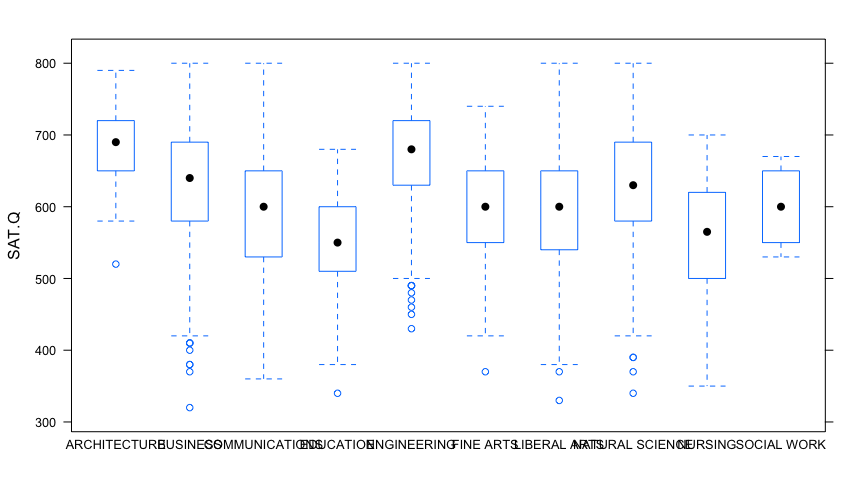
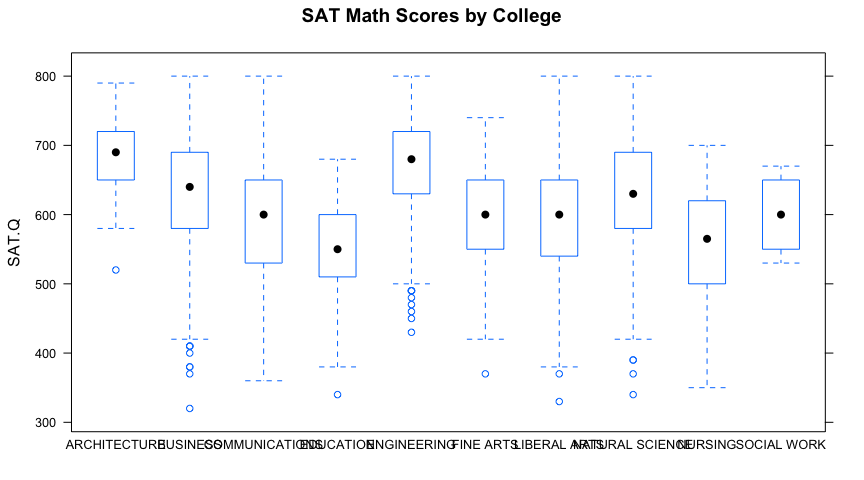
SAT example

diff --git a/teaching/r/sat/sat.md b/teaching/r/sat/sat.md
@@ -2,80 +2,72 @@
 layout: page
 ---
 
-### Boxplots, scatter plots, and lattice plots
+Test scores and GPA for UT graduates
+------------------------------------
 
-In this walk-through, you'll learn how to visualize relationhip of a
-single quantitative variable. You will also learn how to change some of
-the default graphics settings in R plots.
+In this walk-through, you'll learn how to summarize and visualize the
+following kinds of relationships:  
+- between a numerical variable and a categorical variable, via
+group-wise means and boxplots.  
+- between two numerical variables, via scatter plots and correlation
+coefficients.  
+- three variables, using lattice plots.
 
-Data files:  
+You will also learn how to change more of the default plot settings in R
+plots.
+
+You'll need this data file:  
 \* [ut2000.csv](ut2000.csv): data on SAT scores and graduating GPA for
 every student who entered the University of Texas at Austin in the fall
 of 2000 and went on to graduate within 6 years.
 
-First, in order to complete this analysis we need to load in the
-`mosaic` library from within RStudio. An R library (or package) is
-bundle of commands that provides additional functionality, beyond what
-comes with the basic R installation. There are literally thousands of
-packages available for R, ranging from the simple to the very
-sophisticated. The mosaic package was written specifically for use in
-statistics classrooms. We will use it along with a handful of other
-packages this semester, so you’ll need to learn how to install them. The
-first minute of [this
-video](https://www.youtube.com/watch?v=u1r5XTqrCTQ) gives a
-walk-through, but it's quite simple: under the Packages tab, there's a
-button for install. Click it, type in the package name (it should
-auto-complete), click install.
+### Preliminaries
 
-Once the installation is done, you'll be ready to use the library. Load
-it in with the `library` command:
+First, in order to complete this analysis we need to load in the
+`mosaic` library from within RStudio:
 
     library(mosaic)
 
-    ## Loading required package: car
     ## Loading required package: dplyr
+
     ## 
     ## Attaching package: 'dplyr'
+
+    ## The following objects are masked from 'package:stats':
     ## 
-    ## The following object is masked from 'package:stats':
-    ## 
-    ##     filter
-    ## 
+    ##     filter, lag
+
     ## The following objects are masked from 'package:base':
     ## 
     ##     intersect, setdiff, setequal, union
-    ## 
+
     ## Loading required package: lattice
+
     ## Loading required package: ggplot2
+
+    ## Loading required package: car
+
+    ## Loading required package: mosaicData
+
     ## 
     ## Attaching package: 'mosaic'
-    ## 
-    ## The following objects are masked from 'package:dplyr':
-    ## 
-    ##     count, do, tally
-    ## 
+
     ## The following object is masked from 'package:car':
     ## 
     ##     logit
+
+    ## The following objects are masked from 'package:dplyr':
     ## 
+    ##     count, do, tally
+
     ## The following objects are masked from 'package:stats':
     ## 
     ##     binom.test, cor, cov, D, fivenum, IQR, median, prop.test,
     ##     quantile, sd, t.test, var
-    ## 
+
     ## The following objects are masked from 'package:base':
     ## 
     ##     max, mean, min, prod, range, sample, sum
-
-There will be a lot of information returned to the console when you load
-the library, but you only have to worry if you see an actual error, like
-this:
-
-    Error in library(mosaic) : there is no package called ‘mosaic’
-
-This means you haven't installed the package! You'll only have to do the
-installation once, but you will have to load the mosaic library (as
-above) at the beginning of each new R session if you intend to use it.
 
 Next, download the ut2000.csv file and read it in.
 
@@ -99,23 +91,34 @@ Next, download the ut2000.csv file and read it in.
     ##  Max.   :4.000           
     ## 
 
+Between-group and within-group variation
+========================================
+
 School (which of the 10 different undergraduate schools at UT the
 student graduated from) is a natural grouping variable here. To see both
 the between-group and within-group variation, let's examine a boxplot of
 SAT math scores (SAT.Q) versus school.
 
-    bwplot(SAT.Q ~ School, data=ut2000)
+    bwplot(SAT.Q ~ School, data=ut2000, main="SAT Math Scores by College")
 
-![](sat_files/figure-markdown_strict/unnamed-chunk-3-1.png)
+![](sat_files/figure-markdown_strict/unnamed-chunk-3-1.png)  
+ The `bwplot` command is available because we loaded the `mosaic`
+package (if you didn't do this, the bwplot command will produce only an
+error). The aesthetics of `bwplot` are a little nicer than the basic R
+command `boxplot`, which would also work just fine. You may also notice
+the names of the colleges along the x axis running together, which you
+can fix by clicking "Zoom" in the Plots tab and manually resizing the
+window.
 
-The `bwplot` command is available because we loaded the `mosaic`
-package. You'll notice the aesthetics are a little nicer than the basic
-R command `boxplot`. You may also notice the names of the colleges along
-the x axis running together, which you can fix by clicking "Zoom" in the
-Plots tab and manually resizing the window.
+The boxplot allows you to get a sense of whether the between-group or
+within-group variation of SAT math scores is larger.  
+- Between-group variation: how much do the central dots for each group
+differ from one another?  
+- Within-group variation: how spread out are the cases within each
+group?
 
-Let's first focus the between-group variation. We can quantify this by
-seeing how the group means differ from one another.
+Let's first focus the between-group variation, by examining how the
+group means differ from one another.
 
     mean(SAT.Q ~ School, data=ut2000)
 
@@ -126,65 +129,108 @@ seeing how the group means differ from one another.
     ##         NURSING     SOCIAL WORK 
     ##        561.1905        602.1429
 
-This function you the group means "straight up." A slightly different
-way of presenting the same information is given by the lm (linear model)
-function:
+Informally, it looks like the typical difference between group means is
+about 40 points.
 
-    lm1 = lm(SAT.Q ~ School, data=ut2000)
-    coef(lm1)
+We can also examine the within-group variation, by looking at the
+standard deviation of SAT math scores within each college:
 
-    ##           (Intercept)        SchoolBUSINESS  SchoolCOMMUNICATIONS 
-    ##            684.687500            -51.766827            -93.053513 
-    ##       SchoolEDUCATION     SchoolENGINEERING       SchoolFINE ARTS 
-    ##           -130.039613             -9.522032            -87.508013 
-    ##    SchoolLIBERAL ARTS SchoolNATURAL SCIENCE         SchoolNURSING 
-    ##            -87.183439            -51.780833           -123.497024 
-    ##     SchoolSOCIAL WORK 
-    ##            -82.544643
+    sd(SAT.Q ~ School, data=ut2000)
 
-The first line says to use ordinary least squares to a linear model for
-SAT.Q using School as a grouping variable. The second line then extracts
-the coefficients of the linear model. These coefficients express the
-groupwise means in baseline-offset form:  
-- the coefficient for Architecture is just the group mean for
-Architecture, which serves as the baseline  
-- all the other coefficients are the offsets: that is, the amount by
-which the corresponding group mean differs from the baseline.
+    ##    ARCHITECTURE        BUSINESS  COMMUNICATIONS       EDUCATION 
+    ##        59.35048        81.71892        82.62860        66.81893 
+    ##     ENGINEERING       FINE ARTS    LIBERAL ARTS NATURAL SCIENCE 
+    ##        74.23923        71.53429        76.69357        79.47781 
+    ##         NURSING     SOCIAL WORK 
+    ##        78.46709        49.64157
 
-If we wanted to quote numbers that describe the within-group and
-between-group variation, a natural way to do so is to compute the
-standard deviation of the fitted values and residuals from the model.
+It looks as if SAT math scores vary most within Communications, and
+least within Social Work.
 
-    my_fitted_values = fitted(lm1)
-    my_residuals = resid(lm1)
-    sd(my_fitted_values)
+The `favstats` command will compute both the mean and standard
+deviation, along with several of your favorite statistics (like the
+minimum/maximum values, the first and third quartiles, and the median),
+for each college:
 
-    ## [1] 29.75042
+    favstats(SAT.Q ~ School, data=ut2000)
 
-    sd(my_residuals)
+    ##             School min    Q1 median    Q3 max     mean       sd    n
+    ## 1     ARCHITECTURE 520 650.0    690 720.0 790 684.6875 59.35048   32
+    ## 2         BUSINESS 320 580.0    640 690.0 800 632.9207 81.71892  832
+    ## 3   COMMUNICATIONS 360 532.5    600 650.0 800 591.6340 82.62860  306
+    ## 4        EDUCATION 340 510.0    550 597.5 680 554.6479 66.81893  142
+    ## 5      ENGINEERING 430 630.0    680 720.0 800 675.1655 74.23923  695
+    ## 6        FINE ARTS 370 550.0    600 650.0 740 597.1795 71.53429  156
+    ## 7     LIBERAL ARTS 330 540.0    600 650.0 800 597.5041 76.69357 1847
+    ## 8  NATURAL SCIENCE 340 580.0    630 690.0 800 632.9067 79.47781 1125
+    ## 9          NURSING 350 507.5    565 615.0 700 561.1905 78.46709   42
+    ## 10     SOCIAL WORK 530 555.0    600 647.5 670 602.1429 49.64157   14
+    ##    missing
+    ## 1        0
+    ## 2        0
+    ## 3        0
+    ## 4        0
+    ## 5        0
+    ## 6        0
+    ## 7        0
+    ## 8        0
+    ## 9        0
+    ## 10       0
 
-    ## [1] 77.57288
+### Two numerical variables
 
-Next, let's look at a scatterplot of graduating GPA versus SAT math
-scores for all students.
+Our basic tool for visualizing the relationship between two numerical
+variables is the scatter plot. Let's make one which shows graduating GPA
+versus SAT math scores for all students.
 
     plot(GPA ~ SAT.Q, data=ut2000)
 
-![](sat_files/figure-markdown_strict/unnamed-chunk-7-1.png)
+![](sat_files/figure-markdown_strict/unnamed-chunk-7-1.png)  
+ If you want to get fancy, you can change the type of mark (pch), size
+(cex), or color (col) of the plotted points:
 
-We can compute a simple correlation using cor:
+    plot(GPA ~ SAT.Q, data=ut2000, pch=19, cex=0.5, col='grey')
+
+![](sat_files/figure-markdown_strict/unnamed-chunk-8-1.png)  
+Try `?plot` and `points` to see some more of the plotting options.
+
+To compute a correlation coefficient, use the `cor` function:
 
     cor(GPA ~ SAT.Q, data=ut2000)
 
     ## [1] 0.3164184
 
+### Scatter plot matrix
+
+To visualize the relationships among three or more numerical variables,
+we can create a pairs plot showing each bivariate relationship. In this
+case, we'll make a matrix of scatter plots corresponding to the 1st,
+2nd, and 5th columns of the `ut2000` data set (for SAT Verbal, SAT Math,
+and GPA, respectively):
+
+    pairs(ut2000[,c(1,2,5)])
+
+![](sat_files/figure-markdown_strict/unnamed-chunk-10-1.png)  
+ You might find this plot redundant---for example, the plot of SAT.V
+versus GPA (row 1, column 3) contains the same information as the plot
+of GPA versus SAT.V (row 3, column 1). We've just flipped which variable
+appears on the vertical axis. To suppress this redundancy, pass in the
+following flag:
+
+    pairs(ut2000[,c(1,2,5)], upper.panel=NULL)
+
+![](sat_files/figure-markdown_strict/unnamed-chunk-11-1.png)  
+ \#\#\# Lattice plots
+
 Finally, if we want to see this bivariate relationship plotted
 separately for each of the 10 colleges, we need what's called a lattice
-plot. The `xyplot` command produces one:
+plot. A lattice plot allows us to see whether, and how, the relationship
+between two variables is modulated by a third variable. The `xyplot`
+command produces one:
 
     xyplot(GPA ~ SAT.Q | School, data=ut2000)
 
-![](sat_files/figure-markdown_strict/unnamed-chunk-9-1.png)
-
+![](sat_files/figure-markdown_strict/unnamed-chunk-12-1.png)  
 The vertical bar (|) should be read as "conditional upon" or "stratified
-by."
+by." In this case, the GPA versus SAT.Q relationship looks broadly
+similar across all colleges.

diff --git a/teaching/r/basics/installing_library.md b/teaching/r/basics/installing_library.md
@@ -2,9 +2,9 @@
 layout: page
 ---
 
-A library is a piece of software that provides additional functionality to R, beyond what's contained in the basic installation.  R has an enormous ecosystem of libraries (number in the tens of thousands) for various data-analysis tasks.  
+A library is a piece of software that provides additional functionality to R, beyond what's contained in the basic installation.  R has an enormous ecosystem of libraries (number in the tens of thousands) for various data-analysis tasks, ranging from the simple to the very sophisticated. The mosaic package was written specifically for use in statistics classrooms. We will use it along with a handful of other packages this semester, so you’ll need to learn how to install them. 
 
-We'll use the mosaic library repeatedly throughout the semester.  This will walk you through the process of installing this library (and by extension, any of the other libraries you'll need).  Conveniently, libraries (also called packages) are installed from within RStudio itself.   
+The first minute of [this video](https://www.youtube.com/watch?v=u1r5XTqrCTQ) gives a walk-through, but we'll walk through the steps here, too.  (The same process works for any of the other libraries you'll need).  Conveniently, libraries, also called packages, are installed from within RStudio itself.   
 
 ### Installing a library from within RStudio
 

diff --git a/teaching/r/citytemps/citytemps.md b/teaching/r/citytemps/citytemps.md
@@ -58,6 +58,15 @@ First, load the mosaic library, like this.
     ## 
     ##     max, mean, min, prod, range, sample, sum
 
+There will be a lot of information returned to the console when you load
+the library, but you only have to worry if you see an actual error, like
+this:
+
+    Error in library(mosaic) : there is no package called ‘mosaic’
+
+This means you haven't installed the package! You'll only have to do the
+installation once, but you will have to load the mosaic library (as
+above) at the beginning of each new R session if you intend to use it.
 If you haven't installed the mosaic library, see the [instructions
 here.](http://jgscott.github.io/teaching/r/basics/installing_library.html)
 
